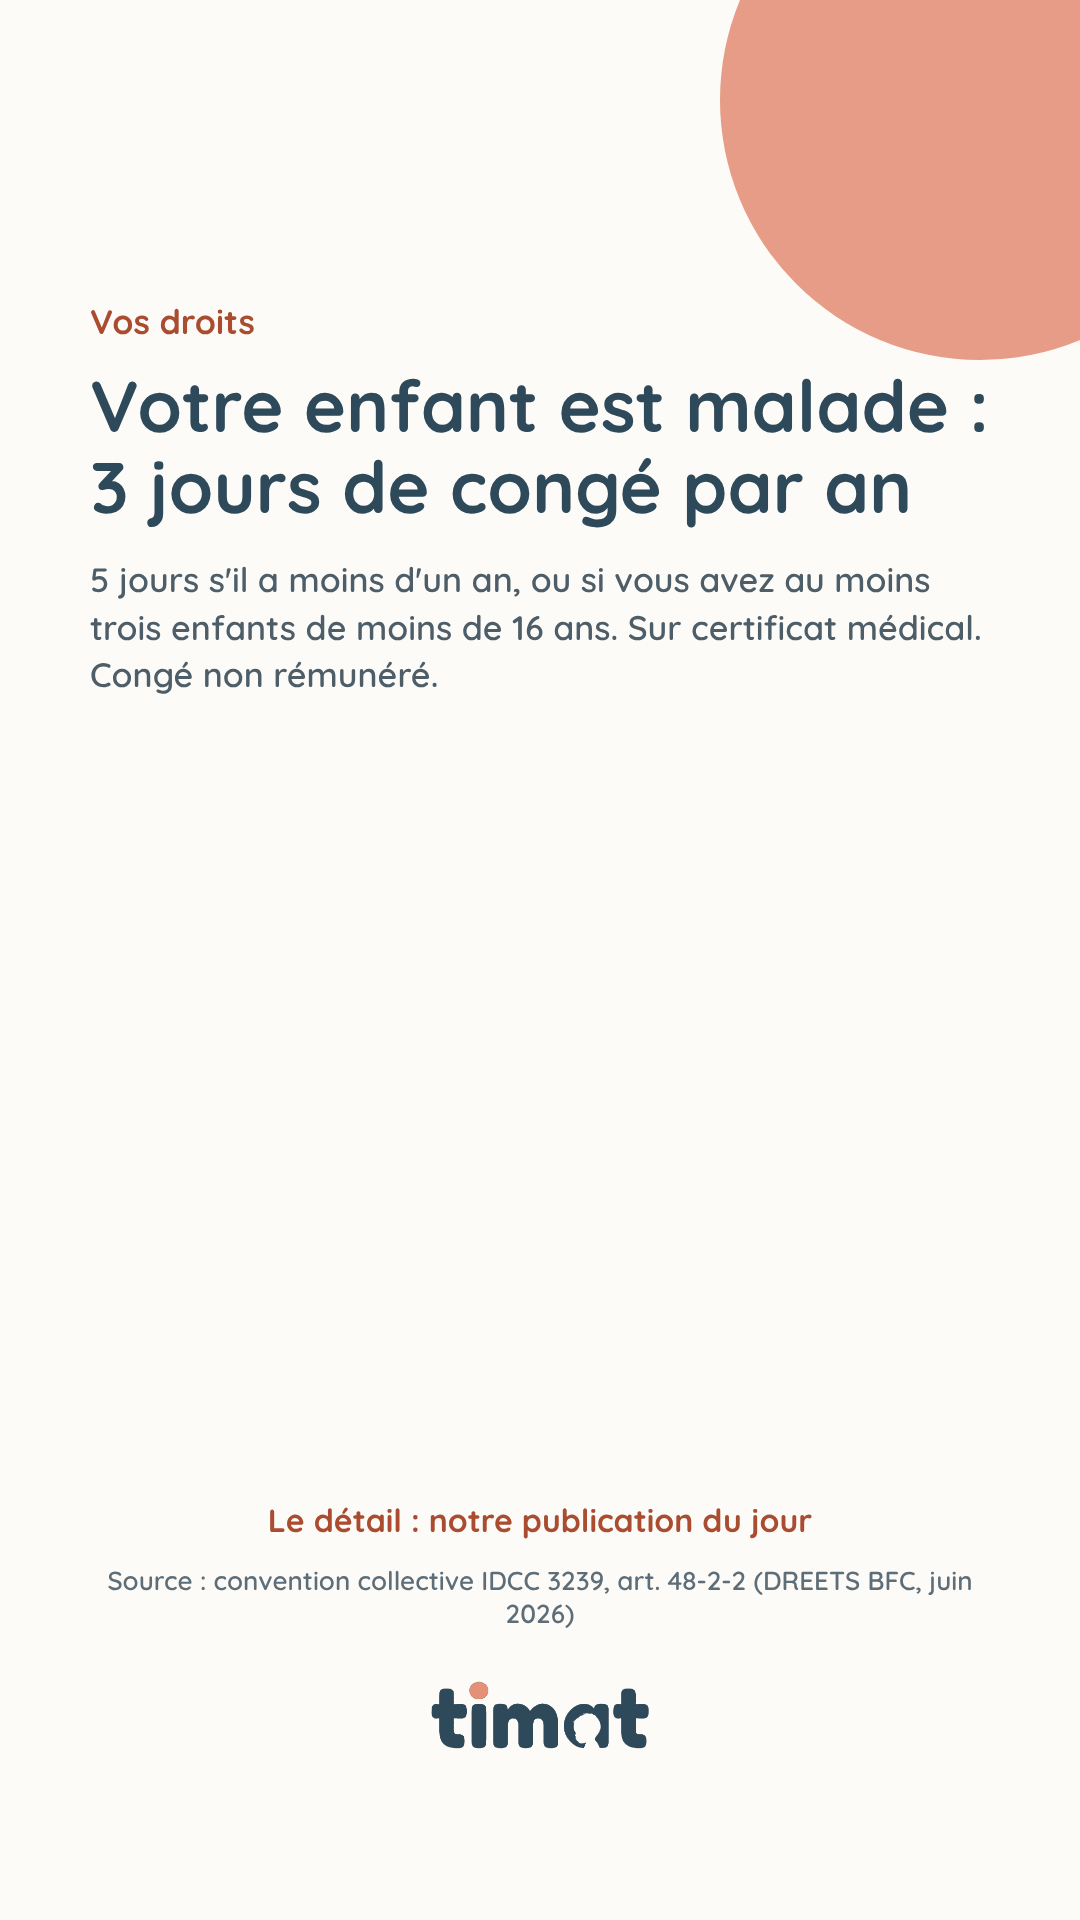
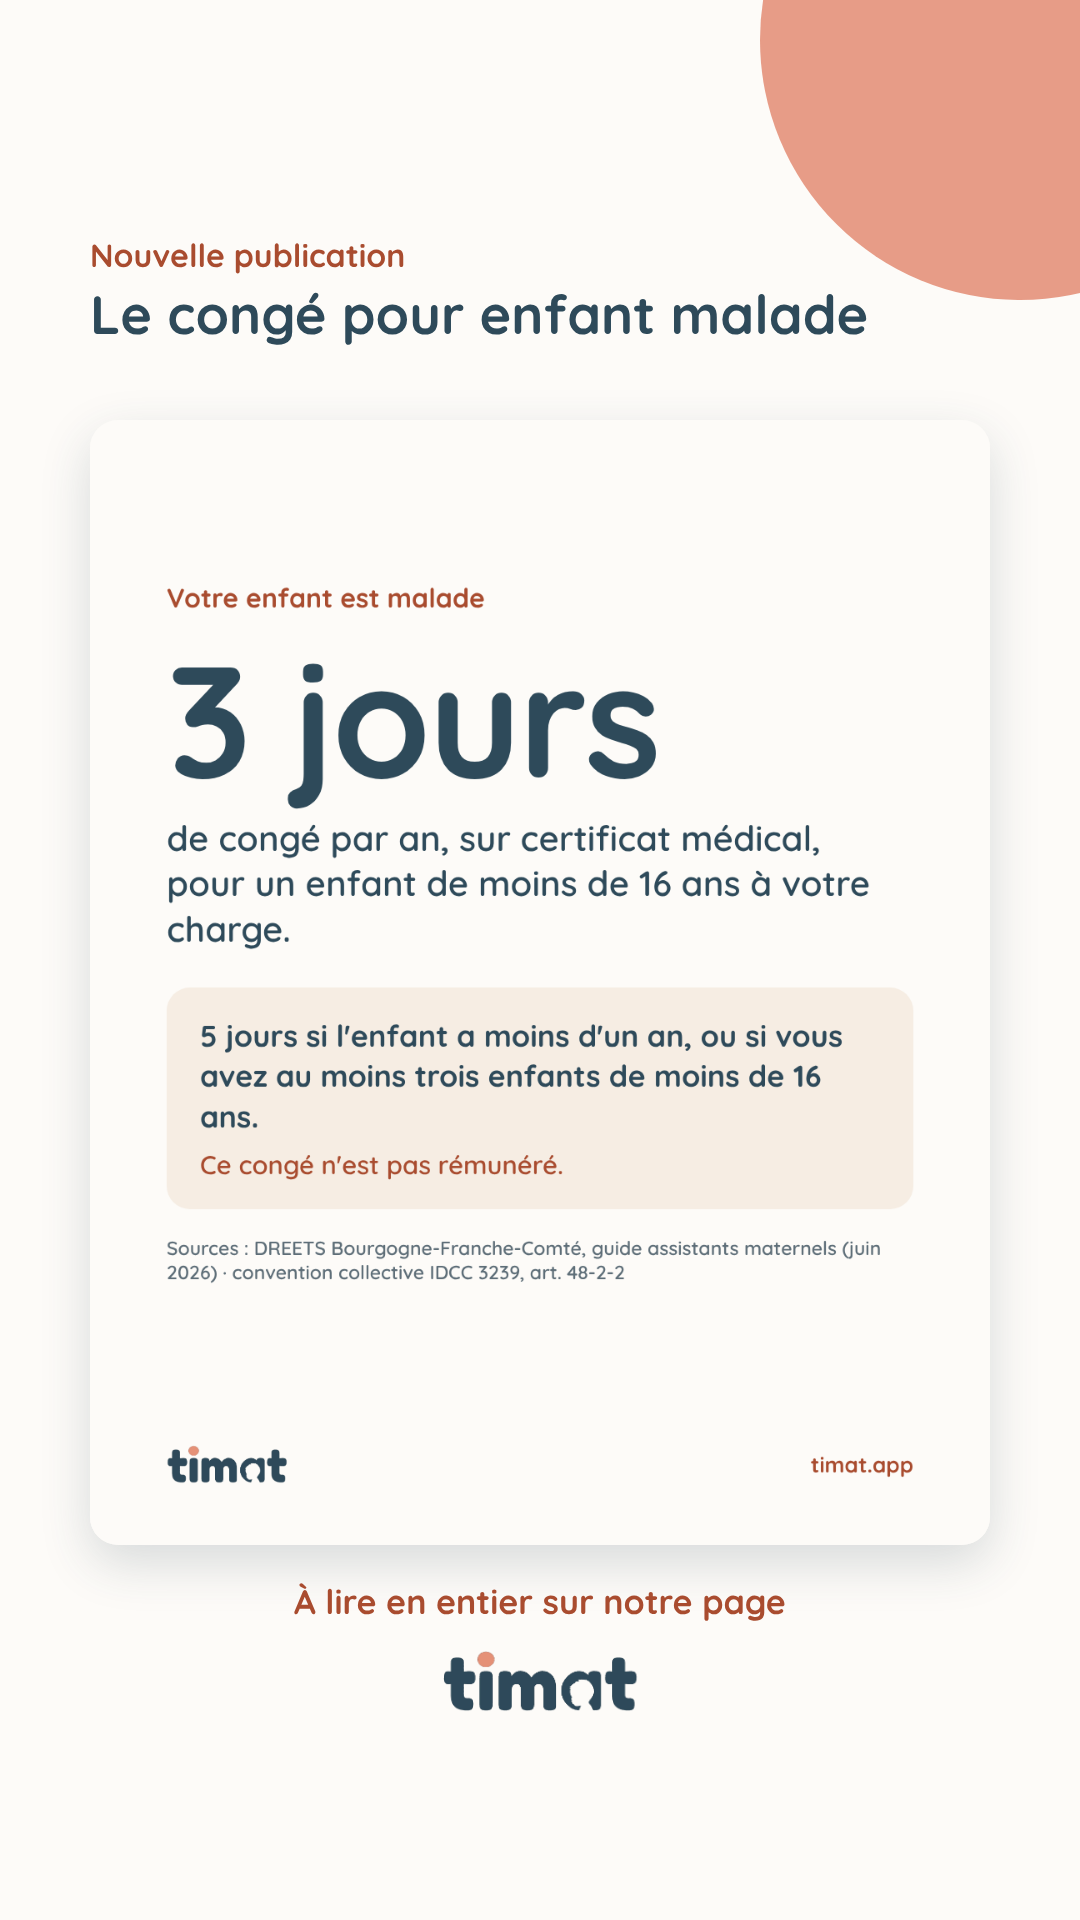
Stories : la publication du jour au milieu, plus d'espace vide
Sophie, le 27/10 : « il y a sur les photos un espace au milieu, qu'est-ce
que je dois mettre ? J'aimerais juste repartager les publications ». Les
douze stories de publication (43 à 54) laissaient un espace prévu pour un
autocollant dont elles n'ont pas besoin. Elles montrent désormais la
publication du jour elle-même, en grand, avec « Nouvelle publication » et
son sujet au-dessus, « À lire en entier sur notre page » en dessous. Les
images insérées sont celles que Metricool publie : identiques octet pour
octet à www.timat.app/reseaux/ (vérifié). Le haut et le bas restent
dégagés pour le nom du compte et la barre de réponse d'Instagram.

Passation : indexation du 27/10 faite jusqu'au numéro 10 ; réponse sur
Metricool et Meta Business Suite (ils ne se relient pas, aucun réglage
d'Instagram ne repartage seul) ; couverture du brouillon posée.

Claude-Session: https://claude.ai/code/session_01JVfHnHqQqeEKwpYvot8sHP

diff --git a/docs/passation-2026-10-13.md b/docs/passation-2026-10-13.md
@@ -618,8 +618,21 @@ l'écran Fin de contrat.
   (`drafts.9af96d05-339a-4e7e-a136-dd6ca8271292`), ordre 21, 9 novembre ;
   couverture dans `public/couvertures-blog/`, à importer dans Sanity une
   fois déployée.
-- **Indexation du 27/10** : liste de 10 envoyée (toutes en 200). Ce que
-  Sophie dira avoir fait : à noter ici.
+- **Indexation du 27/10** : liste de 10 envoyée (toutes en 200). **Sophie :
+  « J'ai fait l'indexation jusqu'au numéro 10 »** — les 10 sont passées.
+- **Stories refaites le 27/10** à la demande de Sophie (« il y a un espace au
+  milieu, qu'est-ce que je dois mettre ? J'aimerais juste repartager les
+  publications ») : les images 43 à 54 montrent désormais la publication du
+  jour elle-même, en grand, au milieu (images identiques octet pour octet à
+  celles que Metricool publie, `www.timat.app/reseaux/`). L'espace vide des
+  images 25 à 29 et 40 à 42 reste : il sert à l'autocollant (quiz, sondage).
+  Réponse donnée : Metricool et Meta Business Suite ne se relient pas ; aucun
+  réglage d'Instagram ne repartage seul une publication en story (recherche
+  du 27/10) ; deux façons de faire, au choix de Sophie : programmer d'avance
+  les images 43 à 54 dans Meta Business Suite (20 h 35), ou repartager à la
+  main dans Instagram après 20 h 30 (avion en papier → Ajouter à votre story).
+- Couverture du brouillon `recu-solde-de-tout-compte-assistante-maternelle` :
+  importée dans Sanity et posée (FAIT le 27/10).
 - **À vérifier** : le titre « Assistant maternel / Garde d'enfants »
   (RNCP 37795) n'est plus enregistré depuis le 19/07/2026, remplacé par
   « Assistant maternel - Assistant parental » (RNCP 42319, France
